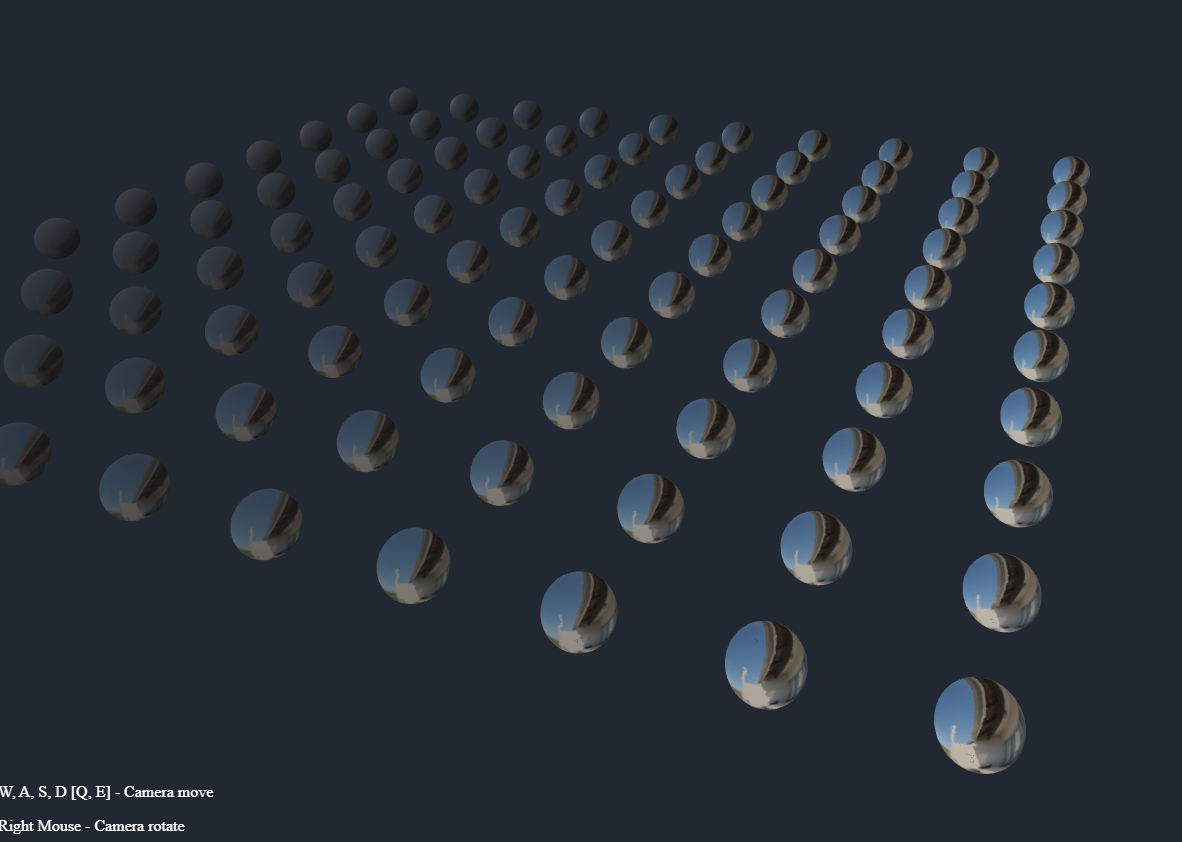
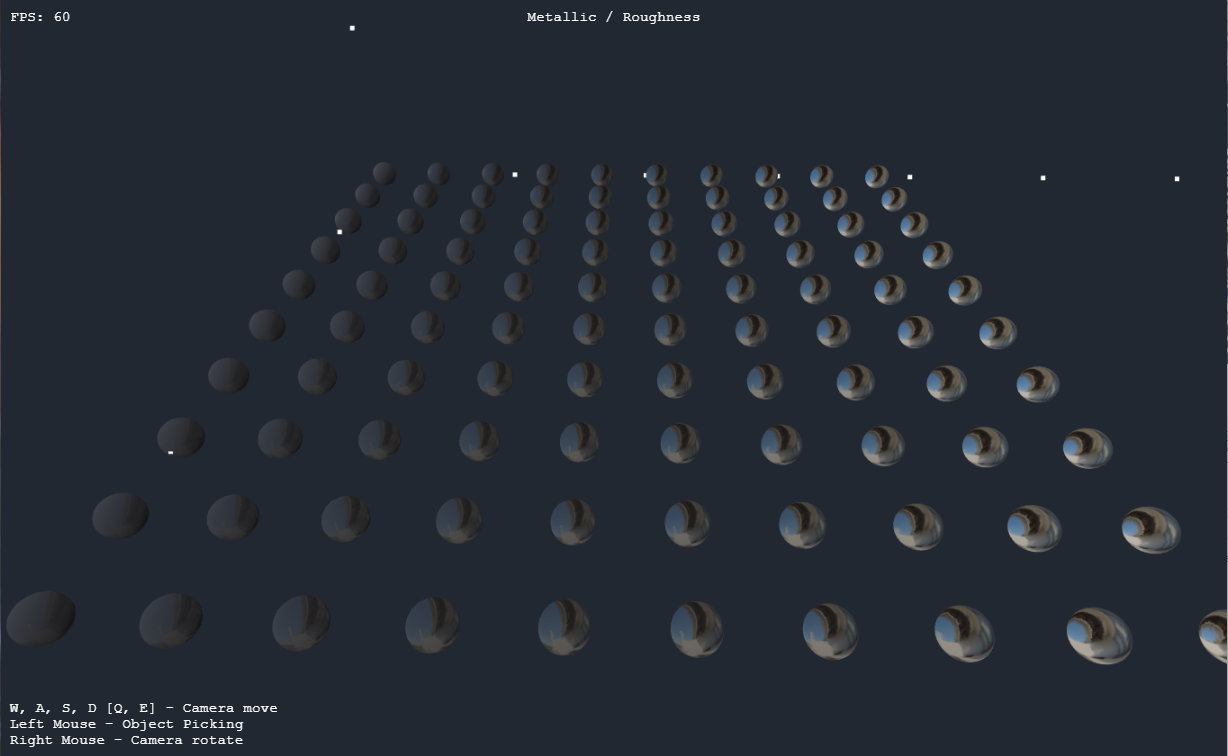
preview

diff --git a/src/index.html b/src/index.html
@@ -8,8 +8,9 @@
   </head>
   <body>
     <canvas id="canvas" width="400" height="400"></canvas>
-    <!-- <canvas id="canvas2" width="1166" height="1313" style="position: absolute; top: 0; left: 1166px; width: 1166px; height: 1313px;"></canvas> -->
-    <!-- <canvas id="canvas2" width="550" height="353" style="position: absolute; top: 0; left: 550px; width: 550px; height: 353px;"></canvas> -->
+    <div style="position: absolute; left: 0; top: 10px; right: 0; text-align: center; color: white; font-family: 'Courier New', Courier, monospace;">
+      Metallic / Roughness
+    </div>
     <div style="position: absolute; left: 10px; bottom: 10px; color: white; font-family: 'Courier New', Courier, monospace;">
       <div>W, A, S, D [Q, E] - Camera move</div>
       <div>Left Mouse - Object Picking</div>

diff --git a/src/scene/sceneManager.ts b/src/scene/sceneManager.ts
@@ -140,26 +140,7 @@ class SceneManager {
         } else {
 			console.log('Empty!');
 		}
-		// this._showPickingMap(rect);
     }
-
-	/* picking map
-	_showPickingMap(rect: any): void {
-		const ctx = this._canvas2!.getContext('2d')!;
-
-		// const width = this._canvas2!.width;
-		// const height = this._canvas2!.height;
-
-		for (let y = 0; y < rect.height; y++) {
-			for (let x = 0; x < rect.width; x++) {
-				const pickedObject = this._sceneView.pickObject(x, y);
-				if (pickedObject) ctx.fillStyle = `rgb(255,0,0)`;
-				else ctx.fillStyle = `rgb(255,255,255)`;
-				ctx.fillRect(x, y, 1, 1);
-			}
-		}
-	}
-	*/
 }
 
 export default SceneManager;
